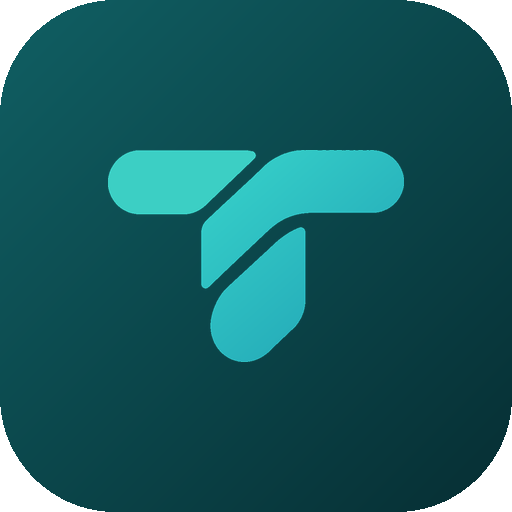
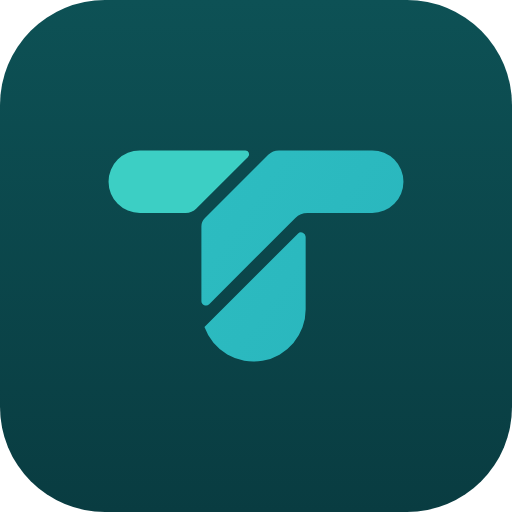
The True Serve mark, redrawn: both cuts 45° and parallel, a straight stem
The lower cut ran at about 34° against the top one's 45°, so the foot of the T
leaned. Redrawn as geometry: both cuts 45° and parallel, equal gaps, the stem's
sides vertical, the round foot centred under the stem. Same colours.

- the in-app mark is now SVG (under 1 KB, sharp at every size); the PNGs are re-renders
- favicon, icon-192, icon-512 and the maskable icon re-rendered from new sources,
  app-icon.svg / app-icon-maskable.svg (they still held the old basket drawing);
  the maskable icon is full-bleed, as a launcher needs

diff --git a/src/components/brand/Brand.tsx b/src/components/brand/Brand.tsx
@@ -35,11 +35,16 @@ import { PRODUCT } from "../../common/brand";
  * icon is masked by a launcher and sits beside other companies' logos with
  * nothing of ours around it; the palette has no claim on it.
  *
- * Both are cut from the same artwork by the script in `core/brand/`, so the
+ * Both are drawn from the same geometry — the sources are the SVGs in
+ * `public/images/logo/` (the mark, and `app-icon*.svg` for the icons) — so the
  * SHAPE cannot drift between them — only the pigment, deliberately.
  */
-const MARK = "/images/logo/true-serve-mark.png";
-const MARK_ON_DARK = "/images/logo/true-serve-mark-ondark.png";
+// SVG, drawn as geometry (the redraw of 2026-11-01: both cuts 45° and
+// parallel, equal gaps, straight stem — the lower cut used to run at about
+// 34° and the foot leaned). Sharp at every size, under 1 KB. The PNGs beside
+// them are re-renders of the same files, for anything that cannot take SVG.
+const MARK = "/images/logo/true-serve-mark.svg";
+const MARK_ON_DARK = "/images/logo/true-serve-mark-ondark.svg";
 
 /** The badge alone — for the collapsed rail, where there is no room for words. */
 export function BrandMark({ size = 32, tone = "auto" }: {
